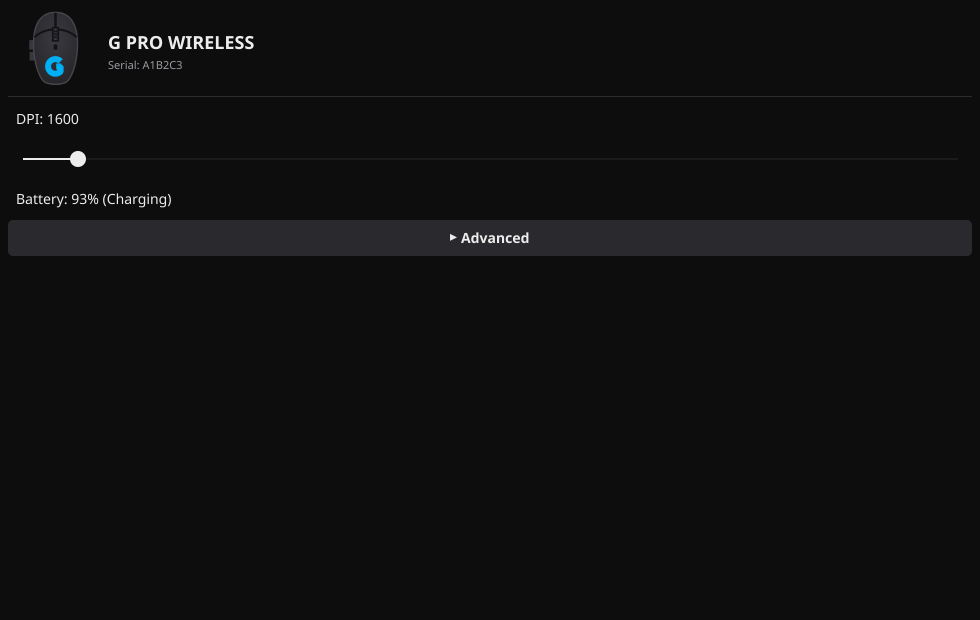
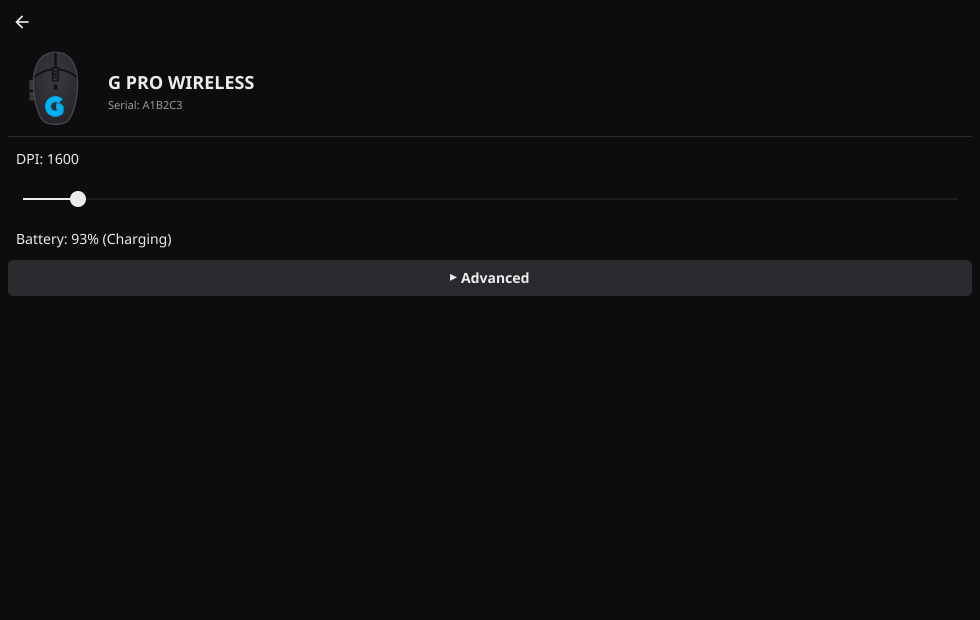
Replace the tab bar with G HUB-style navigation
The dashboard is now the home screen; tapping a card opens that
device's page full-window, and a back arrow in the page's top-left
returns to the dashboard. If the open device unplugs, the UI falls back
to the dashboard. Same-model devices keep their short-serial suffix,
now on their dashboard cards instead of tab labels.

Claude-Session: https://claude.ai/code/session_012G3xCm836vyhQgGvqn7bKg

Changed region(s): [[0.0, 0.3065, 1.0, 0.4903], [0.0, 0.0, 0.2755, 0.2145], [0.0, 0.2452, 0.0918, 0.2758]]

diff --git a/cmd/logitux/ui.go b/cmd/logitux/ui.go
@@ -23,68 +23,50 @@ func loadingPlaceholder() fyne.CanvasObject {
 	return container.NewCenter(widget.NewLabel("Looking for Logitech devices..."))
 }
 
-// buildDeviceList renders one tab per connected device, or an explanatory
-// message when nothing was found. Tabs appear and disappear automatically
-// as devices connect/disconnect, since this is rebuilt from the live
-// device list on every discovery tick (see appState.refresh); there's
-// nothing separate to reconcile.
-func buildDeviceList(a *appState, devices []device.Device) fyne.CanvasObject {
-	if len(devices) == 0 {
-		msg := widget.NewLabel("No supported Logitech devices found.\n\n" +
-			"Make sure the device is plugged in and the udev rule installed by " +
-			"LogiTux's installer has been applied (see the README).")
-		msg.Wrapping = fyne.TextWrapWord
-		msg.Alignment = fyne.TextAlignCenter
-		return container.NewCenter(msg)
+// buildMainView renders the app's single-screen navigation, G HUB-style:
+// the dashboard of device cards is the home screen, tapping a card opens
+// that device's page full-window, and a back arrow in the page's top-left
+// returns to the dashboard. Rebuilt from the live device list on every
+// discovery tick (see appState.refresh); a.selectedSerial carries which
+// screen is showing across rebuilds, and falls back to the dashboard if
+// the open device's page unplugs.
+func buildMainView(a *appState, devices []device.Device) fyne.CanvasObject {
+	if d := a.selectedDevice(devices); d != nil {
+		return buildDevicePage(a, devices, d)
 	}
+	a.selectedSerial = ""
+	return buildDashboard(devices, func(index int) {
+		a.selectedSerial = devices[index].Info().Serial
+		a.window.SetContent(buildMainView(a, devices))
+	})
+}
 
-	labels := make([]string, len(devices))
-	seen := make(map[string]int, len(devices))
+// selectedDevice resolves a.selectedSerial against the current device
+// list: the device whose page should be showing, or nil for the
+// dashboard (nothing selected, or the selected device is gone).
+func (a *appState) selectedDevice(devices []device.Device) device.Device {
+	if a.selectedSerial == "" {
+		return nil
+	}
 	for _, d := range devices {
-		seen[d.Info().Name]++
-	}
-	for i, d := range devices {
-		name := d.Info().Name
-		if seen[name] > 1 {
-			// Disambiguate same-model devices with a short serial suffix.
-			serial := d.Info().Serial
-			if len(serial) > 6 {
-				serial = serial[len(serial)-6:]
-			}
-			name = fmt.Sprintf("%s (%s)", name, serial)
-		}
-		labels[i] = name
-	}
-
-	deviceItems := make([]*container.TabItem, len(devices))
-	for i, d := range devices {
-		deviceItems[i] = container.NewTabItem(labels[i], container.NewVScroll(buildDeviceCard(a, d)))
-	}
-
-	tabs := container.NewAppTabs()
-	dashboardItem := container.NewTabItem("Dashboard", buildDashboard(devices, func(index int) {
-		tabs.Select(deviceItems[index])
-	}))
-	tabs.Append(dashboardItem)
-	for _, item := range deviceItems {
-		tabs.Append(item)
-	}
-	tabs.OnSelected = func(item *container.TabItem) {
-		a.selectedTab = item.Text
-	}
-
-	// Restore whichever tab was selected before this rebuild (a fresh
-	// start, with no prior selection, lands on the Dashboard).
-	selectItem := dashboardItem
-	for i, l := range labels {
-		if l == a.selectedTab {
-			selectItem = deviceItems[i]
+		if d.Info().Serial == a.selectedSerial {
+			return d
 		}
 	}
-	tabs.Select(selectItem)
-	a.selectedTab = selectItem.Text
+	return nil
+}
 
-	return tabs
+// buildDevicePage renders one device's full controls with a back arrow
+// (top-left, like G HUB) that returns to the dashboard.
+func buildDevicePage(a *appState, devices []device.Device, d device.Device) fyne.CanvasObject {
+	back := widget.NewButtonWithIcon("", theme.NavigateBackIcon(), func() {
+		a.selectedSerial = ""
+		a.window.SetContent(buildMainView(a, devices))
+	})
+	back.Importance = widget.LowImportance
+
+	topBar := container.NewHBox(back)
+	return container.NewBorder(topBar, nil, nil, nil, container.NewVScroll(buildDeviceCard(a, d)))
 }
 
 // buildDeviceCard renders the controls a device supports, based on which

diff --git a/cmd/logitux/dashboard.go b/cmd/logitux/dashboard.go
@@ -26,7 +26,7 @@ const (
 // device: bold uppercase name, battery status, a large product render
 // (see assets.go), and a settings button. Tapping a card (or its gear)
 // calls onSelect with that device's index in devices, so the caller can
-// switch to its full control tab.
+// open its device page.
 func buildDashboard(devices []device.Device, onSelect func(index int)) fyne.CanvasObject {
 	if len(devices) == 0 {
 		msg := widget.NewLabel("No supported Logitech devices found.\n\n" +
@@ -37,10 +37,25 @@ func buildDashboard(devices []device.Device, onSelect func(index int)) fyne.Canv
 		return container.NewCenter(msg)
 	}
 
+	seen := make(map[string]int, len(devices))
+	for _, d := range devices {
+		seen[d.Info().Name]++
+	}
+
 	tiles := make([]fyne.CanvasObject, len(devices))
 	for i, d := range devices {
 		index := i // captured per-iteration (Go 1.22+ loop semantics)
-		tiles[i] = newDeviceTile(d, func() { onSelect(index) })
+		name := d.Info().Name
+		if seen[name] > 1 {
+			// Disambiguate same-model devices with a short serial suffix,
+			// so their otherwise-identical cards can be told apart.
+			serial := d.Info().Serial
+			if len(serial) > 6 {
+				serial = serial[len(serial)-6:]
+			}
+			name = fmt.Sprintf("%s (%s)", name, serial)
+		}
+		tiles[i] = newDeviceTile(d, name, func() { onSelect(index) })
 	}
 	grid := container.NewGridWrap(fyne.NewSize(tileWidth, tileHeight), tiles...)
 	return container.NewVScroll(container.NewPadded(grid))
@@ -50,17 +65,18 @@ func buildDashboard(devices []device.Device, onSelect func(index int)) fyne.Canv
 // top-left, battery below it, product image filling the middle, gear
 // bottom-right. Fyne's widget.Card isn't tappable (or hoverable), so this
 // is a custom widget; the whole card and the gear both open the device's
-// tab.
+// page.
 type deviceTile struct {
 	widget.BaseWidget
-	d     device.Device
-	onTap func()
+	d           device.Device
+	displayName string // Info().Name, possibly serial-suffixed by buildDashboard
+	onTap       func()
 
 	bg *canvas.Rectangle // kept for the hover highlight
 }
 
-func newDeviceTile(d device.Device, onTap func()) *deviceTile {
-	t := &deviceTile{d: d, onTap: onTap}
+func newDeviceTile(d device.Device, displayName string, onTap func()) *deviceTile {
+	t := &deviceTile{d: d, displayName: displayName, onTap: onTap}
 	t.ExtendBaseWidget(t)
 	return t
 }
@@ -71,7 +87,7 @@ func (t *deviceTile) CreateRenderer() fyne.WidgetRenderer {
 	t.bg = canvas.NewRectangle(colorCard)
 	t.bg.CornerRadius = 10
 
-	name := canvas.NewText(strings.ToUpper(info.Name), colorForeground)
+	name := canvas.NewText(strings.ToUpper(t.displayName), colorForeground)
 	name.TextStyle = fyne.TextStyle{Bold: true}
 	name.TextSize = theme.Size(theme.SizeNameText)
 

diff --git a/cmd/logitux/main.go b/cmd/logitux/main.go
@@ -44,11 +44,14 @@ type appState struct {
 	mu      sync.Mutex
 	current map[string]device.Device // keyed by serial
 
-	// selectedTab remembers which device tab is active across rebuilds
-	// (buildDeviceList runs on every discovery tick). Only ever touched
-	// from the main/UI goroutine — inside fyne.Do in refresh, or from a
-	// widget callback — so it needs no lock, unlike current above.
-	selectedTab string
+	// selectedSerial is the serial of the device whose page is open, or
+	// "" when the dashboard (the home screen) is showing. It survives
+	// rebuilds (buildMainView runs on every discovery tick) so the open
+	// page stays open; if that device unplugs, the UI falls back to the
+	// dashboard. Only ever touched from the main/UI goroutine — inside
+	// fyne.Do in refresh, or from a widget callback — so it needs no
+	// lock, unlike current above.
+	selectedSerial string
 
 	// advancedOpen remembers, per device serial, whether that device
 	// card's "Advanced" section is expanded. Device cards are rebuilt
@@ -164,7 +167,7 @@ func (a *appState) refresh() {
 	}
 
 	fyne.Do(func() {
-		a.window.SetContent(buildDeviceList(a, devices))
+		a.window.SetContent(buildMainView(a, devices))
 		a.updateSystemTrayMenu(devices)
 	})
 }

diff --git a/cmd/logitux/preview_test.go b/cmd/logitux/preview_test.go
@@ -14,7 +14,6 @@ import (
 	"testing"
 
 	"fyne.io/fyne/v2"
-	"fyne.io/fyne/v2/container"
 	"fyne.io/fyne/v2/test"
 
 	"logitux/internal/config"
@@ -55,11 +54,12 @@ func TestGeneratePreview(t *testing.T) {
 	}
 	state := &appState{store: store, advancedOpen: map[string]bool{}}
 
-	w := test.NewWindow(buildDeviceList(state, devices))
+	w := test.NewWindow(buildMainView(state, devices))
 	w.Resize(fyne.NewSize(980, 620))
 	save(t, w.Canvas().Capture(), "preview-dashboard.png")
 
-	w2 := test.NewWindow(container.NewVScroll(buildDeviceCard(state, devices[0])))
+	state.selectedSerial = devices[0].Info().Serial
+	w2 := test.NewWindow(buildMainView(state, devices))
 	w2.Resize(fyne.NewSize(980, 620))
 	save(t, w2.Canvas().Capture(), "preview-device.png")
 }

diff --git a/README.md b/README.md
@@ -7,7 +7,7 @@ LogiTux talks to hardware directly over Linux's `hidraw` interface (no
 `libhidapi` dependency, no cgo for device I/O), so installation only needs
 a Go toolchain and Fyne's usual GUI build dependencies.
 
-![LogiTux's Dashboard tab, styled after Logitech G HUB: one dark card per connected device with a product render (original artwork, not Logitech's — see Credit), battery level, and a settings button](images/screenshot-dashboard.png)
+![LogiTux's Dashboard, styled after Logitech G HUB: one dark card per connected device with a product render (original artwork, not Logitech's — see Credit), battery level, and a settings button](images/screenshot-dashboard.png)
 ![LogiTux's device page for a G Pro Wireless: product render and name in the header, then DPI and battery controls](images/screenshot-mouse.png)
 
 ## Status
@@ -27,12 +27,14 @@ v1 supports:
   per-band equalizer (band count/frequencies/dB range are read from the
   device, not assumed).
 
-The UI is styled after Logitech's own G HUB: a near-black theme with a
-cyan-blue accent, and a **Dashboard** tab that shows every connected
-device as a clickable G HUB-style card (product render, name, battery
-level if it has one — a bolt marks charging, and a settings button);
-clicking one jumps to its own tab with full controls. Device tabs only
-exist while that device is actually connected. Each tab keeps the one or
+The UI is styled after Logitech's own G HUB, navigation included: the
+**Dashboard** — a near-black home screen with a cyan-blue accent — shows
+every connected device as a clickable card (product render, name,
+battery level if it has one — a bolt marks charging, and a settings
+button); clicking one opens that device's page with its full controls,
+and the back arrow in the page's top-left returns to the Dashboard. A
+device's page only exists while it's actually connected — unplugging
+drops you back on the Dashboard. Each page keeps the one or
 two settings you're likely to adjust often (power, brightness/DPI,
 battery) directly visible, with everything else — color temperature,
 report rate, RGB, button remapping, sidetone, the equalizer — tucked under
@@ -76,9 +78,10 @@ To remove everything `install.sh` set up, run `./uninstall.sh`.
 ## Usage
 
 LogiTux polls for supported devices every few seconds. Each connected
-device gets its own tab (tabs disappear when a device is unplugged), with
-whichever controls it supports — a power checkbox, sliders, dropdowns, a
-color picker. Changes are applied immediately.
+device gets its own page, opened from its Dashboard card (and gone once
+the device unplugs), with whichever controls it supports — a power
+checkbox, sliders, dropdowns, a color picker. Changes are applied
+immediately.
 
 Closing the window minimizes LogiTux to the system tray rather than
 quitting; use the tray menu's "Quit" item to actually exit. The tray also
@@ -133,7 +136,7 @@ restores normal clicking.
 ## Architecture
 
 ```
-cmd/logitux/             GUI entry point (Fyne): window, tabs, dashboard, systray, widgets
+cmd/logitux/             GUI entry point (Fyne): window, dashboard, device pages, systray
 internal/hid/            Pure-Go hidraw backend: enumerate + open /dev/hidrawN
 internal/hidpp/          HID++ 2.0 transport: feature calls, notifications, shared battery logic
 internal/uinput/         Virtual input device, for button remapping